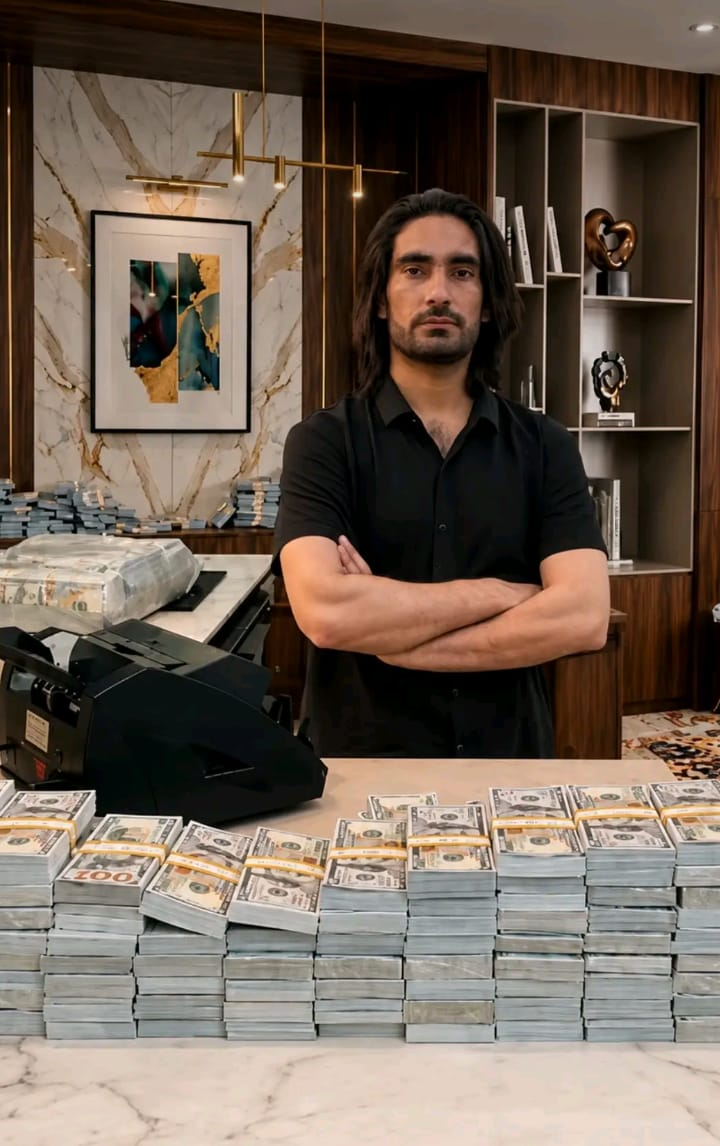
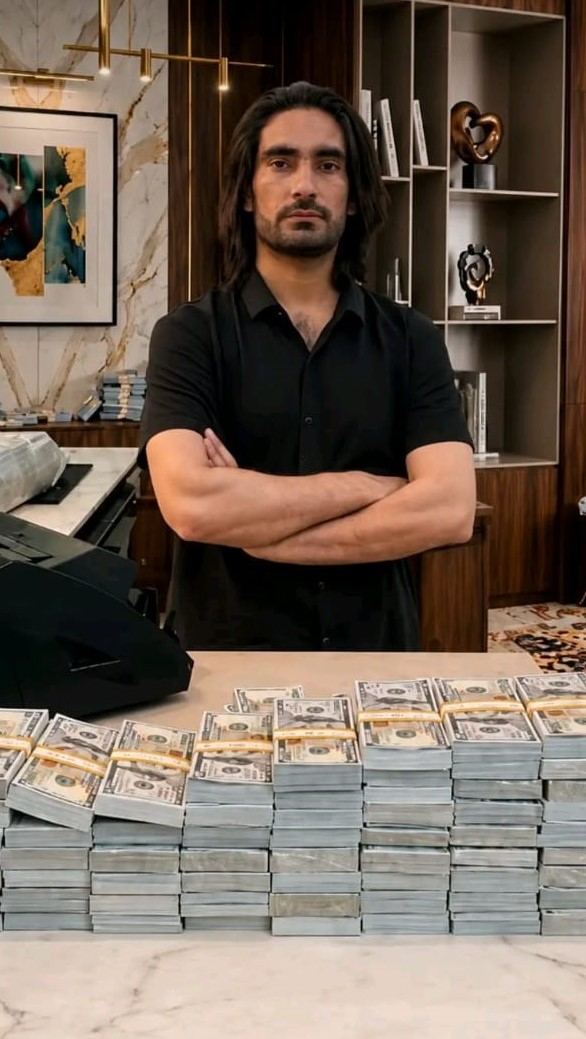
Fix

diff --git a/src/components/Navbar.jsx b/src/components/Navbar.jsx
@@ -1,24 +1,36 @@
 import React, { useEffect, useState } from 'react'
-import { Menu, X, TrendingUp } from 'lucide-react'
+import { Menu, X } from 'lucide-react'
 
 const NAV_LINKS = [
-  { label: 'About',     href: '#about'     },
-  { label: 'Services',  href: '#services'  },
-  { label: 'YouTube',   href: '#youtube'   },
-  { label: 'Gallery',   href: '#gallery'   },
-  { label: 'Results',   href: '#results'   },
-  { label: 'Contact',   href: '#contact'   },
+  { label: 'About',    href: '#about'    },
+  { label: 'Services', href: '#services' },
+  { label: 'YouTube',  href: '#youtube'  },
+  { label: 'Gallery',  href: '#gallery'  },
+  { label: 'Results',  href: '#results'  },
+  { label: 'Contact',  href: '#contact'  },
 ]
 
 export default function Navbar({ whatsappLink }) {
   const [scrolled, setScrolled] = useState(false)
-  const [open, setOpen]         = useState(false)
+  const [open, setOpen] = useState(false)
 
   useEffect(() => {
     const fn = () => setScrolled(window.scrollY > 30)
     window.addEventListener('scroll', fn, { passive: true })
     return () => window.removeEventListener('scroll', fn)
   }, [])
+
+  // Lock body scroll on mobile when menu is active
+  useEffect(() => {
+    if (open) {
+      document.body.style.overflow = 'hidden'
+    } else {
+      document.body.style.overflow = ''
+    }
+    return () => {
+      document.body.style.overflow = ''
+    }
+  }, [open])
 
   return (
     <header
@@ -30,9 +42,8 @@ export default function Navbar({ whatsappLink }) {
       <div className="max-w-[1200px] mx-auto px-6 flex items-center justify-between">
 
         {/* Logo */}
-        <a href="#home" className="flex items-center gap-3 group">
+        <a href="#home" className="flex items-center gap-3 group text-white">
           <div className="w-10 h-10 rounded-xl overflow-hidden border border-[#d4af37]/30 shadow-gold flex-shrink-0">
-            {/* Replace /images/logo.png with your real logo file */}
             <img
               src="/images/logo.jpg"
               alt="TradeWithSalman Logo"
@@ -68,32 +79,74 @@ export default function Navbar({ whatsappLink }) {
               transition-all duration-200">
             Join Signals
           </a>
-          <button onClick={() => setOpen(true)} className="lg:hidden text-white p-1">
-            <Menu size={26} />
+          <button 
+            onClick={() => setOpen(true)} 
+            className="lg:hidden text-white p-2 hover:bg-white/5 rounded-lg transition-colors focus:outline-none"
+            aria-label="Open Menu"
+          >
+            <Menu size={24} />
           </button>
         </div>
       </div>
 
-      {/* Mobile menu */}
-      {open && (
-        <div className="fixed inset-0 z-[200] bg-[#080b10]/98 flex flex-col items-center justify-center gap-8">
-          <button onClick={() => setOpen(false)} className="absolute top-6 right-6 text-white">
-            <X size={30} />
-          </button>
-          {NAV_LINKS.map(l => (
-            <a key={l.href} href={l.href}
+      {/* --- PROFESSIONAL MOBILE SIDEBAR SYSTEM --- */}
+      {/* Dimmed backdrop blur overlay */}
+      <div 
+        className={`fixed inset-0 z-[200] bg-black/60 backdrop-blur-sm lg:hidden transition-opacity duration-300
+          ${open ? 'opacity-100 pointer-events-auto' : 'opacity-0 pointer-events-none'}`}
+        onClick={() => setOpen(false)}
+      >
+        {/* Sidebar Panel Drawer */}
+        <div 
+          className={`absolute top-0 right-0 h-dvh w-[290px] max-w-[85vw] bg-[#0a0e14] border-l border-[#d4af37]/10 p-6 flex flex-col justify-between shadow-2xl transition-transform duration-300 ease-out will-change-transform
+            ${open ? 'translate-x-0' : 'translate-x-full'}`}
+          onClick={(e) => e.stopPropagation()} // Keeps inner clicks inside the menu panel
+        >
+          {/* Top Panel Section */}
+          <div>
+            <div className="flex items-center justify-between pb-6 border-b border-white/5 mb-6">
+              <span className="font-display font-bold text-base tracking-tight text-white">
+                Navigation
+              </span>
+              <button 
+                onClick={() => setOpen(false)} 
+                className="text-[#93a0b4] hover:text-white p-1.5 hover:bg-white/5 rounded-lg transition-colors focus:outline-none"
+                aria-label="Close Menu"
+              >
+                <X size={22} />
+              </button>
+            </div>
+
+            {/* Mobile Navigation Links */}
+            <nav className="flex flex-col gap-2">
+              {NAV_LINKS.map(l => (
+                <a 
+                  key={l.href} 
+                  href={l.href}
+                  onClick={() => setOpen(false)}
+                  className="font-body text-[15px] font-medium text-[#93a0b4] hover:text-[#f1d27a] hover:bg-white/[0.02] px-3 py-2.5 rounded-xl transition-all duration-200"
+                >
+                  {l.label}
+                </a>
+              ))}
+            </nav>
+          </div>
+
+          {/* Bottom Panel Section (CTA Wrapper) */}
+          <div className="pt-4 border-t border-white/5">
+            <a 
+              href={whatsappLink} 
+              target="_blank" 
+              rel="noreferrer" 
               onClick={() => setOpen(false)}
-              className="font-display text-2xl font-bold text-white hover:text-[#f1d27a] transition-colors">
-              {l.label}
+              className="w-full flex items-center justify-center gap-2 px-5 py-3 rounded-xl
+                bg-[#1ed9a7] text-[#06241c] font-display font-bold text-sm shadow-bull hover:bg-[#1bc496] active:scale-[0.98] transition-all duration-200"
+            >
+              Chat on WhatsApp
             </a>
-          ))}
-          <a href={whatsappLink} target="_blank" rel="noreferrer" onClick={() => setOpen(false)}
-            className="mt-4 flex items-center gap-2 px-8 py-3 rounded-full
-              bg-[#1ed9a7] text-[#06241c] font-display font-bold text-base shadow-bull">
-            Chat on WhatsApp
-          </a>
+          </div>
         </div>
-      )}
+      </div>
     </header>
   )
 }

diff --git a/src/components/Hero.jsx b/src/components/Hero.jsx
@@ -108,7 +108,7 @@ export default function Hero({ whatsappLink }) {
           <div className="flex flex-wrap gap-10 mt-12">
             {[
               { num: '8+ Yrs', label: 'Experience' },
-              { num: '12K+',   label: 'Students'   },
+              { num: '35K+',   label: 'Students'   },
               { num: '95%',    label: 'Signal Acc.' },
             ].map(s => (
               <div key={s.label}>